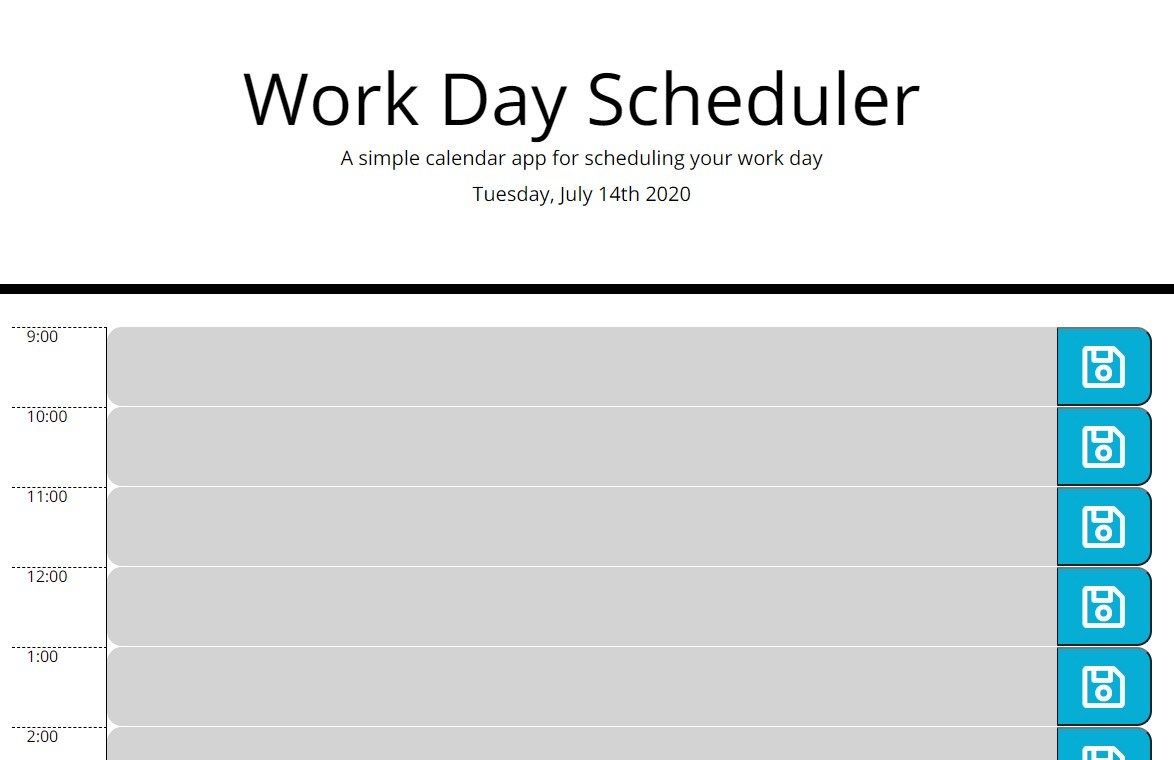
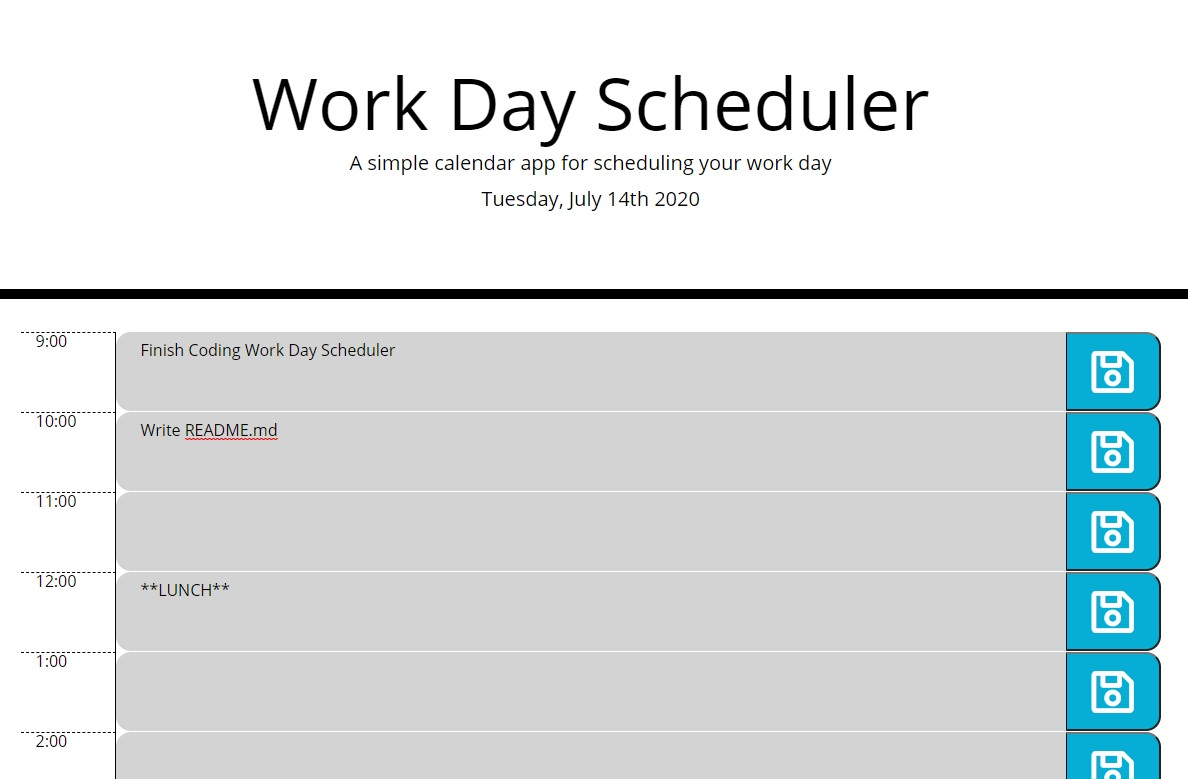
Updated screenshot and wrote new README.md.

diff --git a/README.md b/README.md
@@ -1,116 +1,70 @@
 # homework-work-day-scheduler-5
-Homework Assignment #5: Work Day Scheduler.
+### Homework Assignment #5: Work Day Scheduler
 
+## Goal:
 
+To create a simple scheduling app for the current workday, utilizing jQuery & moment.JS. The app should track which time block is current, and should store events in localStorage.
 
--Goal
+![Project Screenshot](./Assets/work-day-scheduler-screenshot.jpg)
 
--Screenshot
+[Link to Deployed Project](https://gafelton.github.io/homework-work-day-scheduler-5/)
 
--Link to Deployed Project (https://gafelton.github.io/homework-work-day-scheduler-5/)
+## Details/Description
 
--Details/Description
+This work day scheduler app utilizes a Bootstrap grid dynamically generated through jQuery. The current date is shown just under the header, and each hour is color coded (gray for past, red for present, and green for future) based on the current time. Each save button saves the contents of the adjoining text area in local storage, so it persists even if the page is reloaded.
 
+This project gave me a good chance to practice jQuery, in addition to throwing a couple tricky challenges in my direction. I had a bit of trouble with:
 
+1. Changing the color of the text box background based on it's relationship with the current time. I could not just return `<` or `>`, because 11am is greater than 4pm, but before it chronologically. I debated how I would compare times in different formats too, as it can be presented in AMPM, 24h, or in various time zones, as well as the merits of strings vs ASCII values. In the end, I created two functions, one that stripped the ":00" from each of my `hours` array values:
 
+   ```javascript
+   var hoursOnly = hours.map(function (value) {
+       var n = value.replace(":00", "");
+       return n;
+   });
+   ```
 
+   And another that captured the index values for each of the stripped hours values, so when I dynamically created the table later, I could compare `hoursIndex` with `i`:
 
-*(delete below)*
+   ```javascript
+   var hoursIndex = hoursOnly.findIndex(function (value, index) {
+       if (value === currentHour) {
+           return index;
+       };
+   });
+   ```
 
-----
+2. I took a long time trying to figure out the storage structure for timeblocks - whether to put all of the text values into one big array or to create a new item for each time block. I opted for the second route, and it took some serious troubleshooting to learn a few basic quirks of javascript, such as that I needed to call a named function on "click" through an anonymous function in my for loop, otherwise it would run the named function right away:
 
+   ```javascript
+   saveBtnDiv.on("click", function () {
+       var noteIndex = $(this).attr("data-SaveBtn");
+       console.log(noteIndex);
+       storeNote(noteIndex);
+   });
+   ```
 
+   Or that I need to make my console window bigger, because my function for pulling note values worked for those time boxes where I had values, but not for those which returned "null." (Which meant I had to add the if statement testing for `!== null`.)
 
+   ```javascript
+   function pullNotes() {
+       for (i = 0; i < hours.length; i++) {
+           var noteToSet = JSON.parse(localStorage.getItem(("note-" + i)));
+           if (noteToSet !== null) {
+               console.log(noteToSet.note);
+               $(".textarea-" + i).text(noteToSet.note);
+           }
+       }
+   }
+   ```
 
+   
 
-\# 05 Third-Party APIs: Work Day Scheduler
+All in all, I learned a lot through this project. If I were to continue working on it, there are a few more changes I would make (outside the scope of the homework assignment).
 
+### Future features:
 
+* Clear all the text areas when the date changes - write a function that moment.JS against a data attribute where the last loaded date is stored. When those values do not match up, clear all the text areas (and their corresponding objects in local storage) and update the date listed in the header.
+* Add a delete button to each text field - currently each field's current state is captured by the save button, so a user could simply delete the text themselves and save that. But a delete button could also clear local storage and make manipulating the schedule much easier.
+* Allow users to specify their own range of times to display - currently what is holding this back is the `hours` array, which is hardcoded. But if I created an array for 24 hours and let the user decide (via dropdowns) their own range of hours, I could get around this limitation.
 
-Create a simple calendar application that allows the user to save events for each hour of the day. This app will run in the browser and feature dynamically updated HTML and CSS powered by jQuery.
-
-
-
-You'll need to use the [Moment.js](https://momentjs.com/) library to work with date and time. Be sure to read the documentation carefully and concentrate on using Moment.js in the browser.
-
-
-
-\## User Story
-
-
-
-\```
-
-AS AN employee with a busy schedule
-
-I WANT to add important events to a daily planner
-
-SO THAT I can manage my time effectively
-
-\```
-
-
-
-\## Acceptance Criteria
-
-
-
-\```
-
-GIVEN I am using a daily planner to create a schedule
-
-WHEN I open the planner
-
-THEN the current day is displayed at the top of the calendar
-
-WHEN I scroll down
-
-THEN I am presented with timeblocks for standard business hours
-
-WHEN I view the timeblocks for that day
-
-THEN each timeblock is color coded to indicate whether it is in the past, present, or future
-
-WHEN I click into a timeblock
-
-THEN I can enter an event
-
-WHEN I click the save button for that timeblock
-
-THEN the text for that event is saved in local storage
-
-WHEN I refresh the page
-
-THEN the saved events persist
-
-\```
-
-
-
-The following animation demonstrates the application functionality:
-
-
-
-![day planner demo](./Assets/05-third-party-apis-homework-demo.gif)
-
-
-
-\## Review
-
-
-
-You are required to submit the following for review:
-
-
-
-\* The URL of the deployed application.
-
-
-
-\* The URL of the GitHub repository. Give the repository a unique name and include a README describing the project.
-
-
-
-**- - -**
-
-© 2019 Trilogy Education Services, a 2U, Inc. brand. All Rights Reserved.
